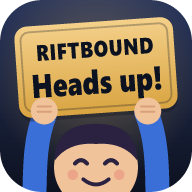
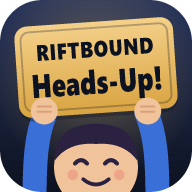
Use 'Riftbound Heads-Up!' as the app name everywhere
Page title, heading, home-screen label, manifest and the icon's sign.

Changed region(s): [[0.1875, 0.3438, 0.8438, 0.5312]]

diff --git a/web/index.html b/web/index.html
@@ -1,5 +1,5 @@
-<!doctype html><html lang="en"><head><meta charset="utf-8"><meta name="viewport" content="width=device-width,initial-scale=1,viewport-fit=cover"><link rel="icon" type="image/svg+xml" href="icon.svg"><link rel="icon" type="image/png" sizes="32x32" href="favicon-32.png"><link rel="apple-touch-icon" href="apple-touch-icon.png"><link rel="manifest" href="manifest.webmanifest"><meta name="apple-mobile-web-app-title" content="Heads up!"><meta name="theme-color" content="#0d1220"><style>:root{padding-top:env(safe-area-inset-top,0px);padding-bottom:env(safe-area-inset-bottom,0px)}body{margin:0}img{max-width:100%}[hidden]{display:none!important}</style></head><body>
-<title>Riftbound Heads-up!</title>
+<!doctype html><html lang="en"><head><meta charset="utf-8"><meta name="viewport" content="width=device-width,initial-scale=1,viewport-fit=cover"><link rel="icon" type="image/svg+xml" href="icon.svg"><link rel="icon" type="image/png" sizes="32x32" href="favicon-32.png"><link rel="apple-touch-icon" href="apple-touch-icon.png"><link rel="manifest" href="manifest.webmanifest"><meta name="apple-mobile-web-app-title" content="Riftbound Heads-Up!"><meta name="theme-color" content="#0d1220"><style>:root{padding-top:env(safe-area-inset-top,0px);padding-bottom:env(safe-area-inset-bottom,0px)}body{margin:0}img{max-width:100%}[hidden]{display:none!important}</style></head><body>
+<title>Riftbound Heads-Up!</title>
 <meta name="claude:viewport-fit-sides" content="cover">
 <link rel="stylesheet" href="https://fonts.googleapis.com/css2?family=Chakra+Petch:wght@500;700&family=Inter:wght@400;500;600&display=swap">
 <style>
@@ -166,7 +166,7 @@ h1 span { color: var(--brass); }
 <section class="screen" id="home">
   <div class="home-inner">
     <div class="brand">
-      <h1>Riftbound <span>Heads-up!</span></h1>
+      <h1>Riftbound <span>Heads-Up!</span></h1>
       <p class="sub">Hold the phone to your forehead. Your friends describe the card. Tilt up when you get it, tilt down to pass.</p>
     </div>
 
